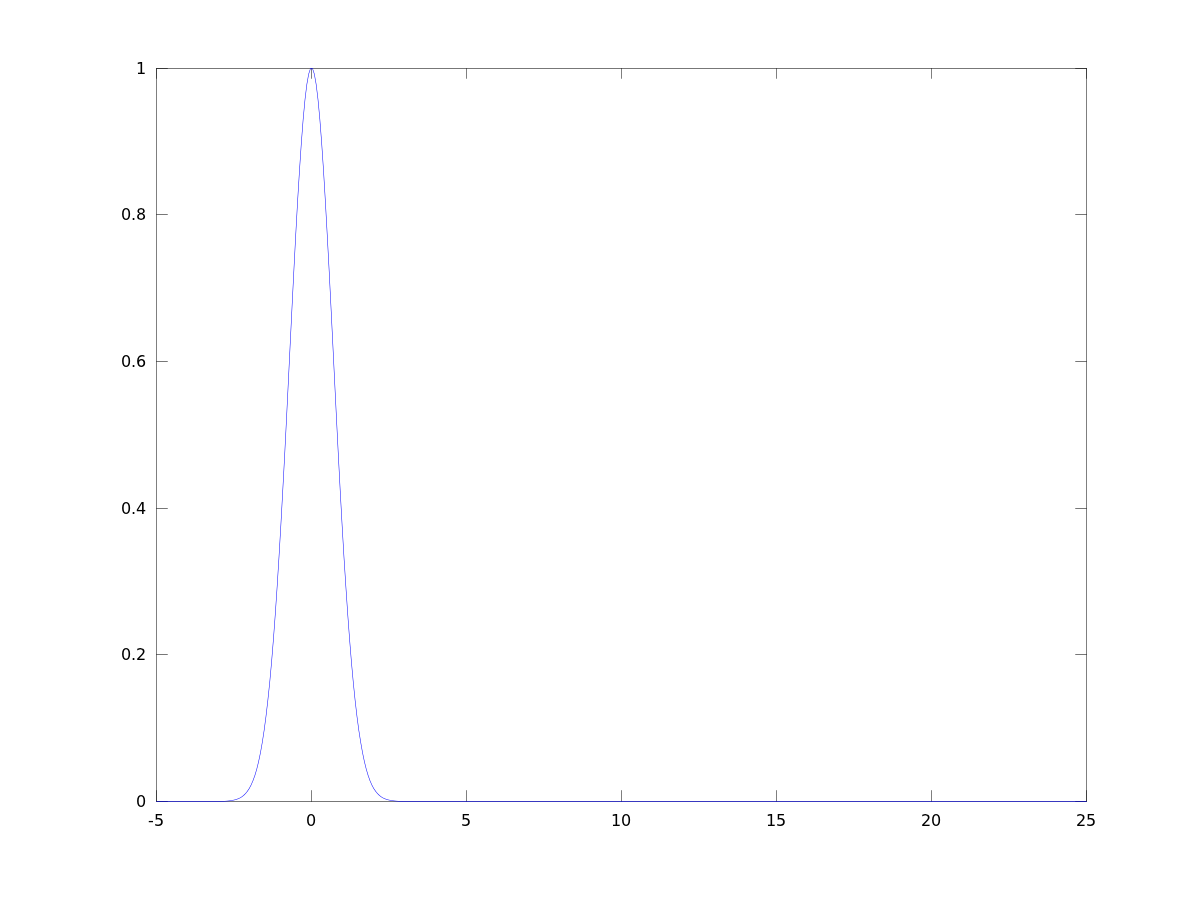
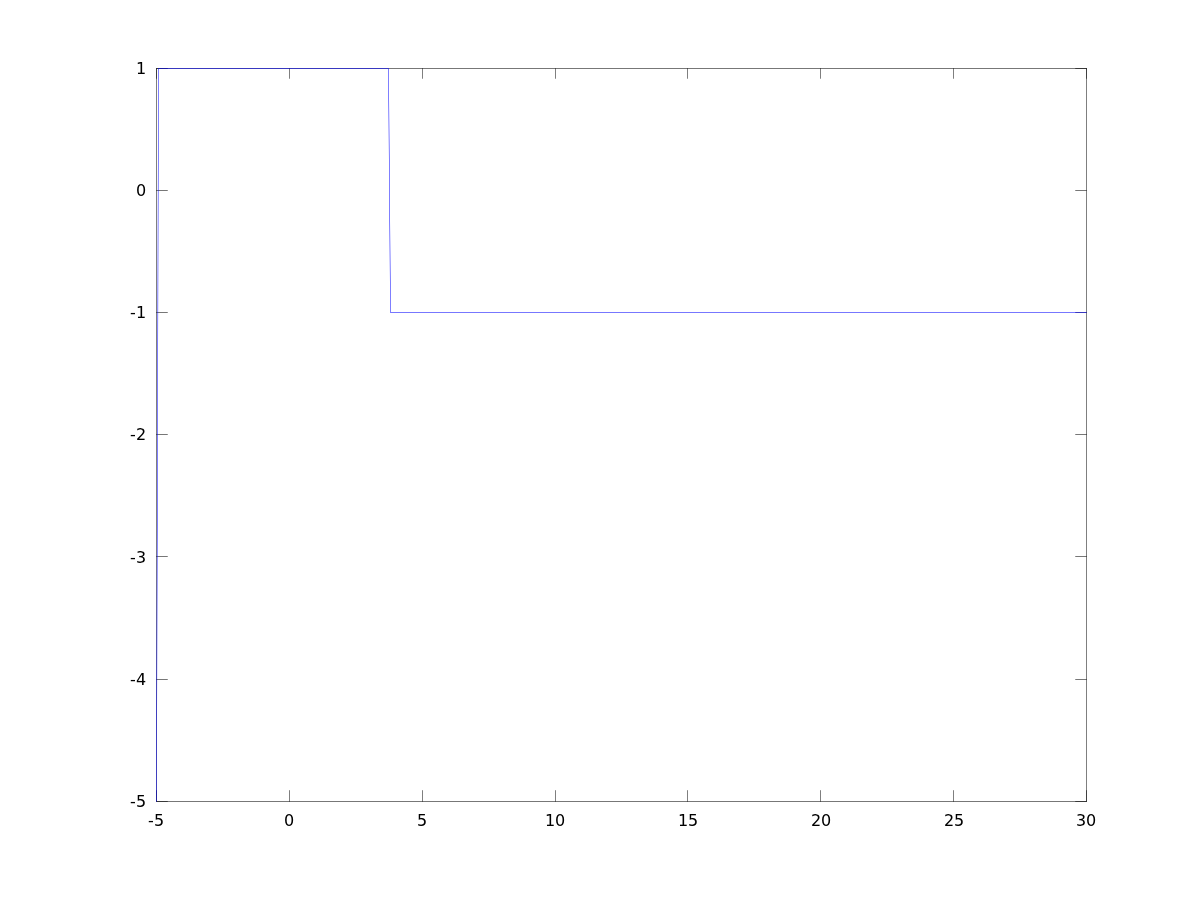
corrected main.m. Hope this is not as absurd as the previous commit.

diff --git a/main.m b/main.m
@@ -1,70 +1,106 @@
-function U =  main(nu,xmin,xmax,N)
-  c=1;
-  h=(xmax-xmin)/(N+1);
-  dt=nu*h/c;
-  [U0 Du0 D2u0]= plotInitial(xmin, xmax, N);
-  U = getU(U0, Du0, D2u0,h,dt,N,nu);
-  x = xmin:h:xmax;
-  f = figure;
-  set(f, "visible", "off");
-  #for i = 1:2*(N+2)
-     #plot(x, U(i:(N+i+1)));
-     #hold on;
-     #i= i + N + 2;
-  #endfor;
-  plot(x, U(1:(N+2)));
-  print("plots.png", "-dpng");  
+function main(nu, xmin, xmax, N)
+	h = (xmax-xmin)/(N+1);
+	c=1;
+	Nt = 25;
+	dt = h*nu/c;
+	x = xmin:h:xmax;
+        ch = input("1. continuous 2.discontinuous ");
+        if(ch==1)
+                u0=plotInitialCont(xmin,xmax,N);
+        elseif(ch==2)
+                u0=plotInitialDis(xmin,xmax,N);
+        else
+                disp("wrong choice!");
+        endif;
+	choice = input("1. forward 2. backward 3. central 4. lax");
+	if(choice==1)
+		forward(x,u0,nu,N,Nt);
+	elseif(choice==2)
+		backward(x,u0,nu,N,Nt);
+	elseif(choice==3)
+		central(x,u0,nu,N,Nt);
+	elseif(choice==4)
+		lax(x,u0,nu,N,Nt);
+	else
+		disp("wrong choice!");
+	endif;
 endfunction;
-function P = getU(u0, du0 ,d2u0,h,dt,N,nu)
-    P = [];
-    for i = 1:2
-      P = [P ; Un(i, u0, du0, d2u0, h, dt, N, nu)];
-    endfor;
-endfunction
-function un = Un(n,u0, du0, d2u0, h, dt, N, nu)
-    un=[];
-    for j = 1:N+2
-      un = [ un, u(j,n,u0,du0, d2u0, h, dt, N ,nu)];
-    endfor;
+function forward(x,u0,nu,N,Nt)
+	unp1 = u0;
+        f = figure;
+        set(f,"visible","off");
+	for n=2:Nt
+		un= unp1;
+		for j=1:N+1
+			unp1(j) = (1+nu)*un(j) - nu*un(j+1);
+		endfor;
+		unp1(N+2)=0;
+		if(mod(n,5)==0)
+			plot(x,unp1,'color',n/5+1);
+			hold on;
+		endif;
+	endfor;
+	print("fplots.png", "-dpng");
 endfunction;
-function ujn = u(j,n,u0, du0, d2u0, h, dt, N, nu)
-    if(n==1)
-      ujn= u0(j);
-    else
-      ujn = u(j,n-1,u0,du0,d2u0,h,dt,N,nu)*(1+nu) - nu*(u(j,n-1,u0,du0,d2u0,h,dt,N,nu) + h*du(n-1,u0,du0,d2u0,h,dt,N,nu)(j) + h*h/2*d2u(n-1,u0,du0,d2u0,h,dt,N,nu)(j));
-    endif
+function backward(x,u0,nu,N,Nt)
+	unm1 = u0;
+        f=figure;
+	set(f, "visible", "off");
+	for n=2:Nt
+		un= unm1;
+		unm1(1)=0;
+		for j=2:N+2
+			unm1(j) = (1+nu)*un(j) - nu*un(j-1);
+		endfor;
+		if(mod(n,5)==0)
+    			plot(x,unm1);
+			hold on;
+		endif;
+	endfor;
+	print("bplots.png", "-dpng");
 endfunction;
-function approx = du(n,u0,du0,d2u0,h,dt,N,nu)
-    if(n==1)
-      approx= du0;
-    else
-      approx1 = [diff(u(n,u0,du0,d2u0,h,dt,N,nu)),0.00];
-      approx = approx1/h;
-    endif;
+function central(x,u0,nu,N,Nt)
+	un = u0;
+	unm1=u0;
+	unp1=u0;
+	f=figure;
+	set(f, "visible", "off");
+	for n=4:Nt
+		unm1=un;
+		un=unp1;
+		for j=2:N+1
+			unp1(j) = unm1(j) - nu*un(j+1) + nu*un(j-1);
+		endfor;
+		unp1(1)=0;
+		unp1(N+2)=0;
+		if(mod(n,5)==0)
+			plot(x, unp1);
+                        hold on;
+		endif;
+	endfor;
+	print("cplots.png", "-dpng");
 endfunction;
-function approx = d2u(n,u0,du0,d2u0,h,dt,N,nu)
-    if(n==1)
-      approx = d2u0;
-    else
-      approx1 = [diff(du(n,u0,du0,d2u0,h,dt,N,nu)), 0.000];
-      approx = approx1/h;
-    endif;
-endfunction;
- 
-  
-  #for n= 2:5
-     #U = [U ; u(n)];
-  #endfor;
+function lax(x,u0,nu,N,Nt)
+	unp1=u0;
+        f = figure;
+        set(f,"visible","off");
+      	for n=2:Nt
+		un=unp1;
+		unp1(1)=0;
+		unp1(N+2)=0;
+		for j=2:N+1
+			unp1(j) = un(j) - nu*(un(j+1)-un(j-1))/2 + nu*nu/2*(un(j-1)-2*un(j)+un(j+1));
+		endfor;
+		if(mod(n,5)==0)
+			plot(x,unp1);
+                        hold on;
+		endif;
+	endfor;
+	print("lplots.png","-dpng");
+endfunction;	
 
-    
-  
-  
-  
-
-  
-  
-  
+		
 
 
-
-
+		
+	

diff --git a/plotInitialDis.m b/plotInitialDis.m
@@ -1,0 +1,15 @@
+function u0 = plotInitialDis(xmin, xmax, N)
+  #xmin=0, xmax=5, N=4;
+  h=(xmax-xmin)/(N+1);
+  x = xmin:h:xmax;
+  y = x;
+  y(x>xmin & x<(xmin + (N+1)/4*h))=1;
+  y(x>=(xmin + (N+1)/4*h))=-1;
+  u0=y;
+  f = figure;
+  set(f, "visible", "off")
+  plot(x,y); 
+  print("initial.png", "-dpng")
+endfunction
+
+

diff --git a/plotInitialCont.m b/plotInitialCont.m
@@ -1,0 +1,16 @@
+function u0 = plotInitialCont(xmin, xmax, N)
+  #xmin=0, xmax=5, N=4;
+  h=(xmax-xmin)/(N+1);
+  x = xmin:h:xmax;
+  y = [];
+  for entry = x
+    y = [y, exp(-entry*entry)];
+  endfor;
+  u0=y;
+  f = figure;
+  set(f, "visible", "off")
+  plot(x,y); 
+  print("initial.png", "-dpng")
+endfunction
+
+
